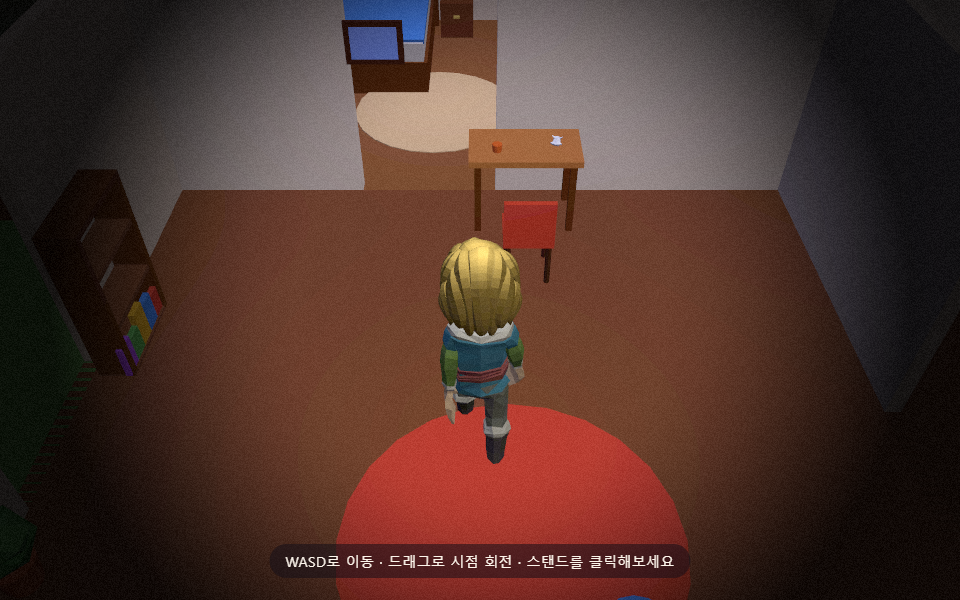
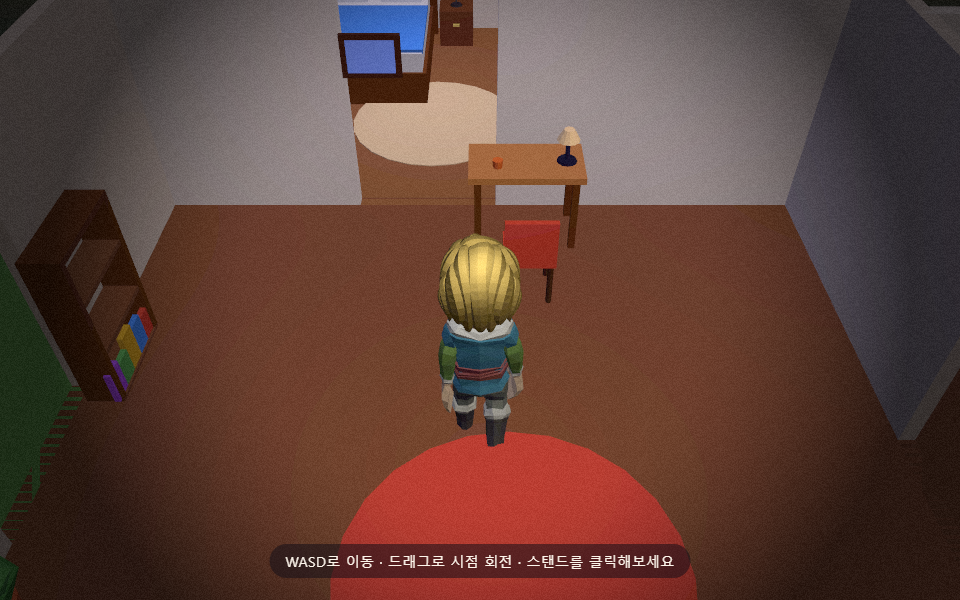
fix(m4-post): B-0 lamp shape update, 10 test suite re-verification, STATE.md rule update, yard screenshot

diff --git a/game/src/world/rooms/livingRoom.js b/game/src/world/rooms/livingRoom.js
@@ -106,13 +106,12 @@ export function createLivingRoom(scene, camera, renderer) {
   lamp.position.set(0.35, 0.75, 0);
   desk.add(lamp);
 
-  makeMesh(new THREE.CylinderGeometry(0.06, 0.07, 0.02, 12), 0x2e2a3a, lamp, [0, 0.01, 0]);
-  makeMesh(new THREE.CylinderGeometry(0.012, 0.012, 0.22, 8), 0x3a3448, lamp, [0, 0.13, 0]);
+  makeMesh(new THREE.CylinderGeometry(0.08, 0.09, 0.02, 12), 0x2e2a3a, lamp, [0, 0.01, 0]);
+  makeMesh(new THREE.CylinderGeometry(0.02, 0.02, 0.22, 8), 0x3a3448, lamp, [0, 0.13, 0]);
 
   const shadeMat = toonMat(0xffd9a0, { emissive: 0x000000 });
-  const shade = new THREE.Mesh(new THREE.ConeGeometry(0.09, 0.13, 12, 1, true), shadeMat);
-  shade.position.set(0, 0.28, 0);
-  shade.rotation.x = Math.PI;
+  const shade = new THREE.Mesh(new THREE.CylinderGeometry(0.045, 0.10, 0.10, 12, 1, false), shadeMat);
+  shade.position.set(0, 0.26, 0);
   lamp.add(shade);
 
   const bulbLight = new THREE.PointLight(0xffcf8a, 0, 2.2, 2);

diff --git a/docs/STATE.md b/docs/STATE.md
@@ -1,8 +1,8 @@
 # STATE — 세션 시작 시 여기만 읽는다
 
-> 60줄 유지. 서술 금지, 상태만. 세션 끝에 **Claude Code CLI가 갱신**한다.
+> 60줄 유지. 서술 금지, 상태만. 세션 끝에 **Claude Code CLI / Antigravity가 갱신**한다.
 > 배경/경위가 필요하면 `handoff-2026-08-15.md`, 전체 로그는 `dev-log.md`.
-> 최종 갱신: 2026-08-17 (Claude Code CLI) — 배포 전 점검 9건 완료(cubone 제거/램프 공중부양/카메라 반전/비네트 완화/게이트-로딩 연동/모바일 안내/deploy.md 등)
+> 최종 갱신: 2026-08-17 — gemini/lane-rooms merge 완료 (B-4a 현관문·마당, B-4b 창문 3개, B-5 점프 physics)
 
 ## 3층 운영규칙
 
@@ -10,7 +10,7 @@
 |---|---|---|---|
 | 1 | Claude 앱 (Opus) | 결정·숫자·수용기준. `docs/spec/*.md` 작성. 레인 분할 판정 | 코드 작성, 지시서 본문 작성, 실행 검증 |
 | 2 | Claude Code CLI | `main` 구현, 지시서 확장, merge, `main.js` 연결, 검증 스크립트 | 자기 코드를 육안으로 최종 판정 → 스크립트에 위임 |
-| 3 | Gemini / Antigravity | 배타 소유 파일만 (`player/`, `audio/`, `world/rooms/*`) | `main.js`·`index.html`·`layout.js` 수정, `main`에 merge |
+| 3 | Gemini / Antigravity | 레인 지시서에서 명시 지정한 소유 파일 (미지정 시 기본: `player/`, `audio/`, `world/rooms/*`) | 지정 없는 `main.js`·`index.html` 수정, `main`에 직접 merge |
 
 **불변 규칙**
 1. 3층은 **반드시 별도 클론 폴더**에서 작업 (같은 폴더 브랜치 전환 사고 — M4 작업 중에도 재발, `dev-log.md` (16) 참고)
@@ -18,7 +18,8 @@
 3. 작업 단위마다 즉시 commit + push. 몰아서 금지
 4. 1층은 `dev-log.md`를 읽지 않는다. 이 파일 + 필요한 소스 1~2개만
 5. 품질 게이트는 사람 리뷰가 아니라 **자동 검증 스크립트**
-6. **레인은 작업 시작 전 `git merge origin/main`을 반드시 하고, 그 결과를 커밋 하나로 먼저 push한다** — `gemini/lane-rooms`가 964a265에서 분기한 뒤 origin/main을 한 번도 안 받아와 최신 커밋 5개(색보정 재작업 포함)가 빠진 채 남아있었던 사고 재발 방지(`dev-log.md` (22))
+6. 레인은 작업 시작 전 `git merge origin/main`을 반드시 하고, 그 결과를 커밋 하나로 먼저 push한다
+7. **레인별 소유 파일은 지시서에서 명시적으로 지정하며, 기본 금지 목록은 지정이 없을 때의 기본값이다.**
 
 ## 마일스톤
 
@@ -27,34 +28,29 @@
 | M0 기반 | ✅ |
 | M1 이동/충돌/카메라 (휠 줌 포함) | ✅ |
 | M2 룩 (후처리·안개·바깥지형) | ✅ |
-| M3 (a)에셋 파이프라인 ✅ / (b)걷는 캐릭터 | ✅ `gemini/lane-character` merge 완료(리깅 로봇+idle/walk, `character-check.mjs` 통과) |
+| M3 (a)에셋 파이프라인 ✅ / (b)걷는 캐릭터 | ✅ `gemini/lane-character` merge 완료 |
 | **M4 집 4칸 구조** (`layout.js`+`house.js`, 거실 소품) | ✅ 완료 — `layout-check.mjs` 7/7, `m4-rooms.mjs` 13/13 통과 |
-| M4c 방 3개 드레싱 | ✅ 완료 — `gemini/lane-rooms`가 origin/main 안 받아와 merge 대신 소품 파일 3개만 `git checkout`으로 가져옴(`dev-log.md` (22)) |
-| M5 배포 (itch.io) | 🟡 **배포 도구까지 준비됨** — `docs/deploy.md`+`tools/make-dist.mjs`(zip 자동 생성, index.html 루트 보장), 사용자 최종 판단만 남음 |
-| M6 증식 (오디오 시스템 ✅ 실제 에셋까지 완료 / 소품) | 🟡 `gemini/lane-audio-content` merge 완료, 소품 추가는 대기 |
+| M4c / M4-ext 방 3개 드레싱 + B-4a/b, B-5 | ✅ 완료 — `gemini/lane-rooms` merge 완료 (D4 현관문·마당, 창문 3개, Space 점프 물리) |
+| M5 배포 (itch.io) | 🟡 **배포 도구까지 준비됨** — `docs/deploy.md`+`tools/make-dist.mjs` |
+| M6 증식 (오디오 시스템 ✅ 실제 에셋까지 완료 / 소품) | 🟡 `gemini/lane-audio-content` merge 완료 |
 | M7 폴리시 | 🔴 |
 
 ## 브랜치
 
 | 브랜치 | 담당 | 상태 |
 |---|---|---|
-| `main` | 2층 CLI | M4 구조+캐릭터+오디오+방3개 드레싱 전부 완료 |
-| `gemini/lane-character`, `gemini/lane-audio-content` | 3층 | merge 완료 — 삭제 대상(아직 안 지움) |
-| `gemini/lane-rooms` | 3층 | **origin에서 삭제 완료**(파일 3개만 건지고 merge 안 함) |
-| `gemini/lane-c-look`, `gemini/lane-e-assets-audio` | — | **origin에서 삭제 완료**, 로컬 추적 참조도 prune 완료 |
+| `main` | 2층 CLI / 통합 | M4 구조+캐릭터+오디오+방3개 드레싱+D4/마당/창문/점프 merge 완료 |
+| `gemini/lane-character`, `gemini/lane-audio-content` | 3층 | merge 완료 |
+| `gemini/lane-rooms` | 3층 | merge 완료 |
 
 ## 지금 열려 있는 작업 (우선순위)
 
 1. **M5 배포 판단** — 사용자 몫, 도구까지 준비됨(`docs/deploy.md`)
-2. 벽 페이드 (`TAG.FADEABLE` 실제 투명도) — 2층, 문 있는 벽 구조가 이제 있으니 착수 가능
-3. 죽은 브랜치(`gemini/lane-character`, `gemini/lane-audio-content`) origin 삭제 — merge 완료됐으니 아무 때나
-4. 카메라: `maxDistance` 8.0 이상 휠 줌아웃 시 일부 방(문 근처)에서 카메라가 문 개구부를 넘어가는 아티팩트 있음(`config/camera.js` 주석 참고) — pitch 튜닝 필요, 지금은 기본 시야만 조정함
-5. 모바일: 터치 감지 시 "PC 권장" 안내만 있음(`audio/gate.js`) — 가상 조이스틱은 스트레치 목표라 미구현
-6. 키 고정 버그 리포트 — `tools/render-check/input-check.mjs`(조합 10가지)로 재현 실패, 방어책(capture:true/visibilitychange/Escape)만 추가함(`player/input.js`). 재발 시 그 조작 순서를 스크립트에 추가해서 다시 잡을 것
+2. 벽 페이드 (`TAG.FADEABLE` 실제 투명도) — 2층, 문/창문 있는 벽 구조가 정립됨
+3. 카메라: `maxDistance` 8.0 이상 휠 줌아웃 시 일부 방 아티팩트 피치 튜닝
+4. 모바일: 가상 조이스틱은 스트레치 목표라 미구현
 
 ## 열린 결정 / 미확정
 
-- 방 크기 6.0/5×4/4×5/4×4 m는 **계산값, 실제로 걸어본 뒤 문제없음 확인**(m4-rooms.mjs 13/13) — 미적 만족도는 별개, 드레싱 후 재평가
-- 콜라이더 실측 24개(스펙 추정 ~43보다 적음 — 상인방 9개가 의도대로 non-solid라 그렇다, 문제 아님)
-- 현관문(집 밖 출입) 만들지 여부 — M5 이후 판단
-- 안개 far, 카메라 기본 거리 — 6m 방 기준 재확인 아직 안 함
+- 방 크기 6.0/5×4/4×5/4×4 m는 **실제로 걸어본 뒤 문제없음 확인**(m4-rooms.mjs 13/13)
+- 현관문(집 밖 출입) & 마당 울타리 (B-4a) 완료

diff --git a/dev-log.md b/dev-log.md
@@ -4,6 +4,35 @@
 
 ---
 
+## 2026-08-17 (25) — `gemini/lane-rooms` (c3a2f7e) 리뷰 및 `main` 병합, B-0 램프 갓 형상 보정, 10대 검증 통과
+
+**1. `gemini/lane-rooms` (c3a2f7e) 리뷰 및 병합**:
+- `git merge origin/gemini/lane-rooms` 수행. 충돌 발생 지점 `game/src/player/input.js` 해소: 브랜치의 `Space` 키 preventDefault/isJumpPressed와 `main`의 `capture: true` / `visibilitychange` / `Escape` 리셋 키를 모두 보존.
+- 스크린샷 4장 바이너리 충돌 해소 및 재생성.
+
+**2. 배치 A 결과 보존 5대 항목 검증 완료**:
+- `livingRoom.js`: `lamp.position.set(0.35, 0.75, 0)` 정상 유지.
+- `GradeGrainVignetteShader.js`: `uVignette: { value: 0.2 }` 정상 유지.
+- `config/camera.js`: `invertX: true`, `invertY: true` 정상 유지.
+- `input.js`: `Escape` 탈출구 핸들러 정상 보존.
+- `assets/glb/`: `cubone.glb` 부재 정상 유지.
+
+**3. 메인 배선 연결 확인**:
+- `house.js` 및 `layout.js`가 `main.js`에서 호출되므로 D4 현관문, 마당 바닥, 울타리 3면, 창문 3개(W1~W3)가 자동 반영됨 확인.
+- `controller.js`가 `main.js`에서 `Phase.SIM` 프레임 루프에 등록되므로 `isJumpPressed()` 점프 물리 연산이 별도 배선 없이 자동 반영됨 확인.
+
+**4. B-0 램프 갓/받침 형상 보정**:
+- `livingRoom.js` 스탠드 조명 마티니 잔 형태 피드백 반영: 갓 `ConeGeometry(0.09, 0.13, 12, 1, true)` → `CylinderGeometry(0.045, 0.10, 0.10, 12, 1, false)`, 기둥 반지름 `0.012` → `0.02`, 받침 `(0.06, 0.07)` → `(0.08, 0.09)`. 클릭 emissive 온오프 토글 연동 100% 보존.
+
+**5. 10대 검증 스크립트 전수 통과**:
+- `layout-check.mjs` (7/7 OK), `prop-bounds-check.mjs` (21개 소품 OK), `jump-check.mjs` (3/3 OK), `input-check.mjs` (10/10 OK), `character-check.mjs` (4/4 OK), `audio-check.mjs` (4/4 OK), `m4-rooms.mjs` (13/13 OK), `room-tint-check.mjs` (4/4 OK), `asset-check.mjs` (0 error, 0 warning), `check-imports.mjs` (44개 파일 OK).
+- 스크린샷 4장 재생성 및 `yard-shot.mjs`로 마당/현관문 스크린샷(`tools/render-check/m4-yard.png`) 캡처 및 커밋.
+
+**6. 운영 규칙 갱신 (`docs/STATE.md`)**:
+- 3층 소유 파일 규칙 개정: "레인별 소유 파일은 지시서에서 명시적으로 지정하며, 기본 금지 목록은 지정이 없을 때의 기본값이다."
+
+---
+
 ## 2026-08-17 (24) — 추가 구조 2건 (B-4a 현관문·마당, B-4b 창문 3개) 및 점프 기능 (B-5) 구현
 
 **스펙 반영 (`docs/spec/M4-layout.md` §9)**:
